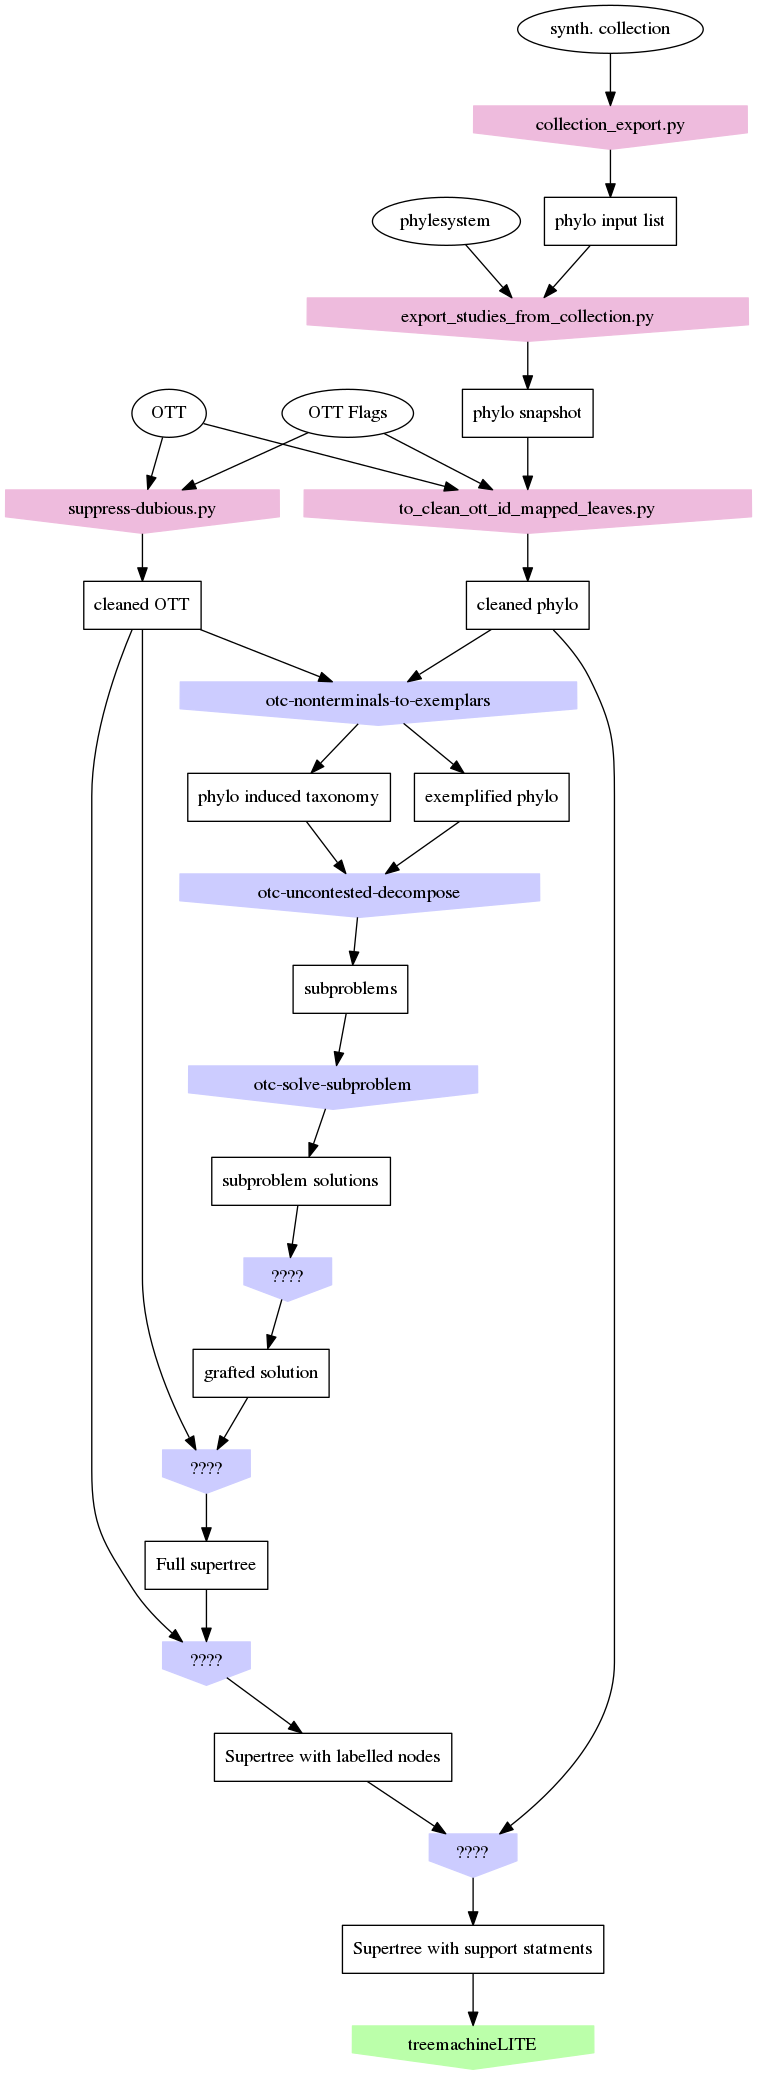
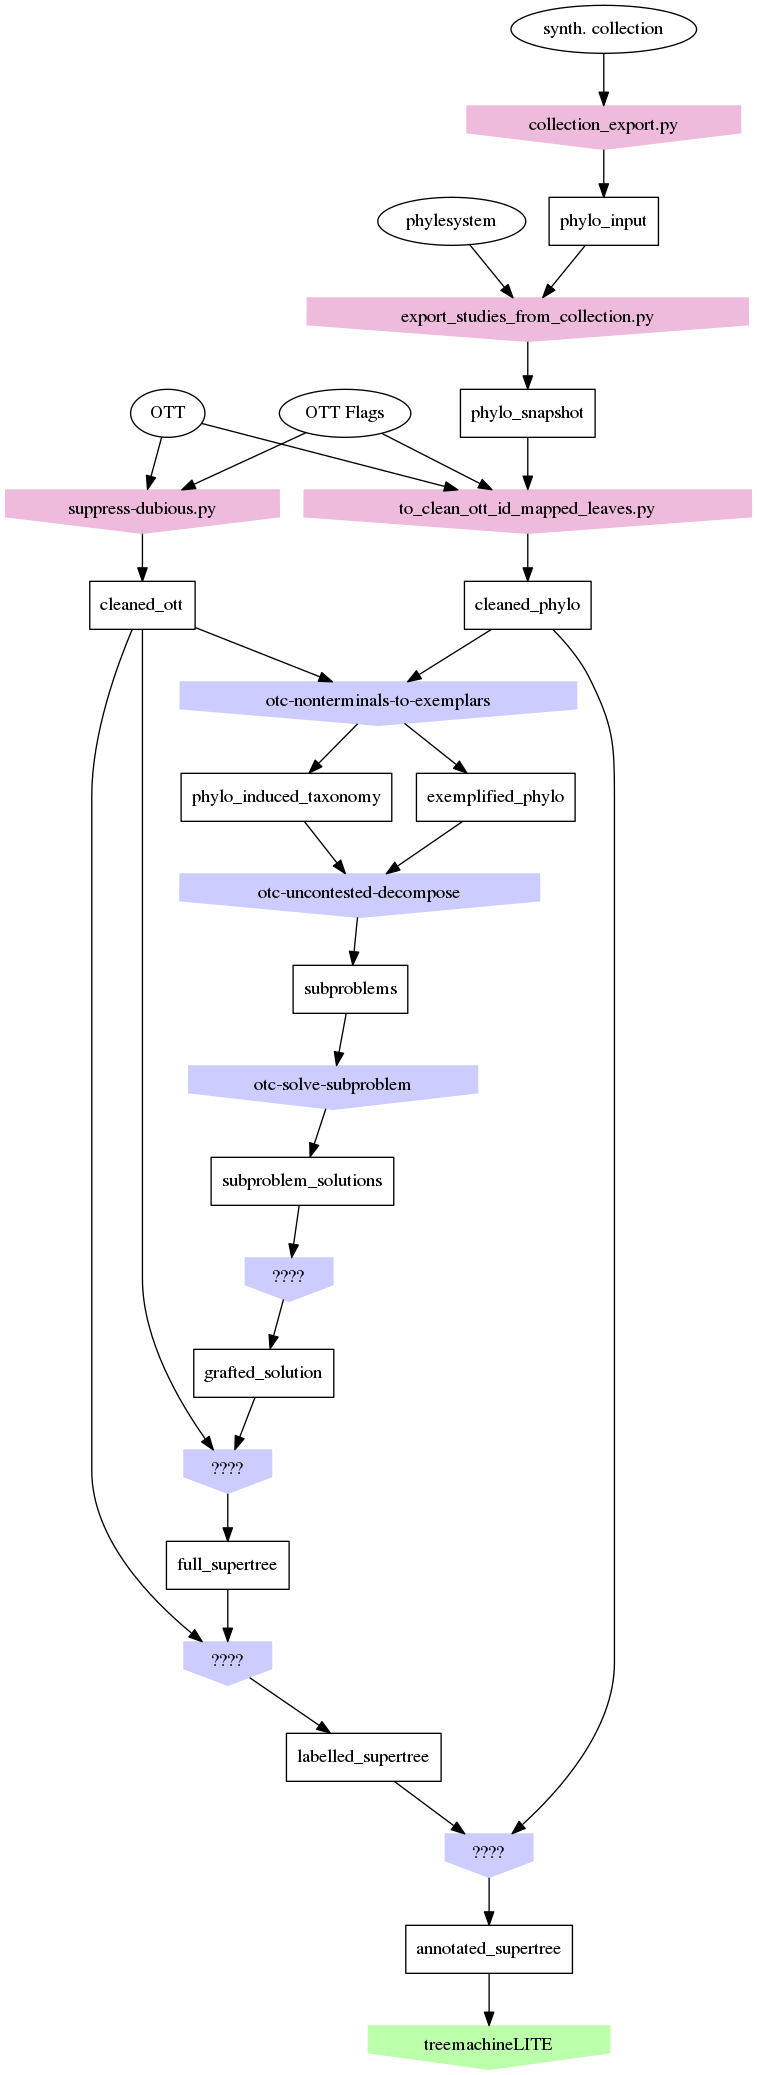
docs

diff --git a/README.md b/README.md
@@ -50,5 +50,11 @@ studyID_treeID represenation of the tree's ID.
 
 ## Sketch
 A cartoon of the pipeline with peyotl tools in pink and otcetera tools in blue.
+Inputs are ovals, products of this repo are contents of directories, and the rectangles show these directories.
+
+Don't take this too literally.
+In some cases, there are multiple targets created with 
+different tools in a subdirectory.
+In these cases this sketch just shows the most interesting tool.
 
 ![pipeline](https://github.com/mtholder/propinquity/blob/master/doc/pipeline-tools.png)
